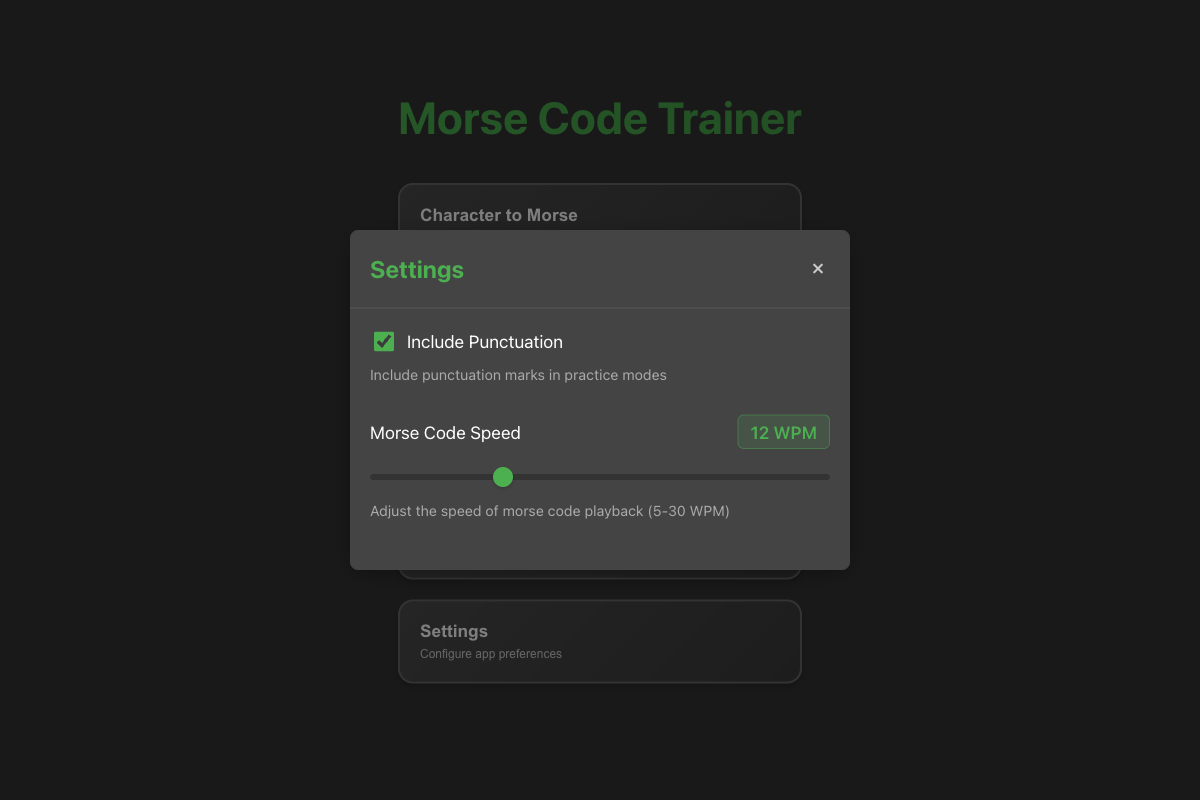
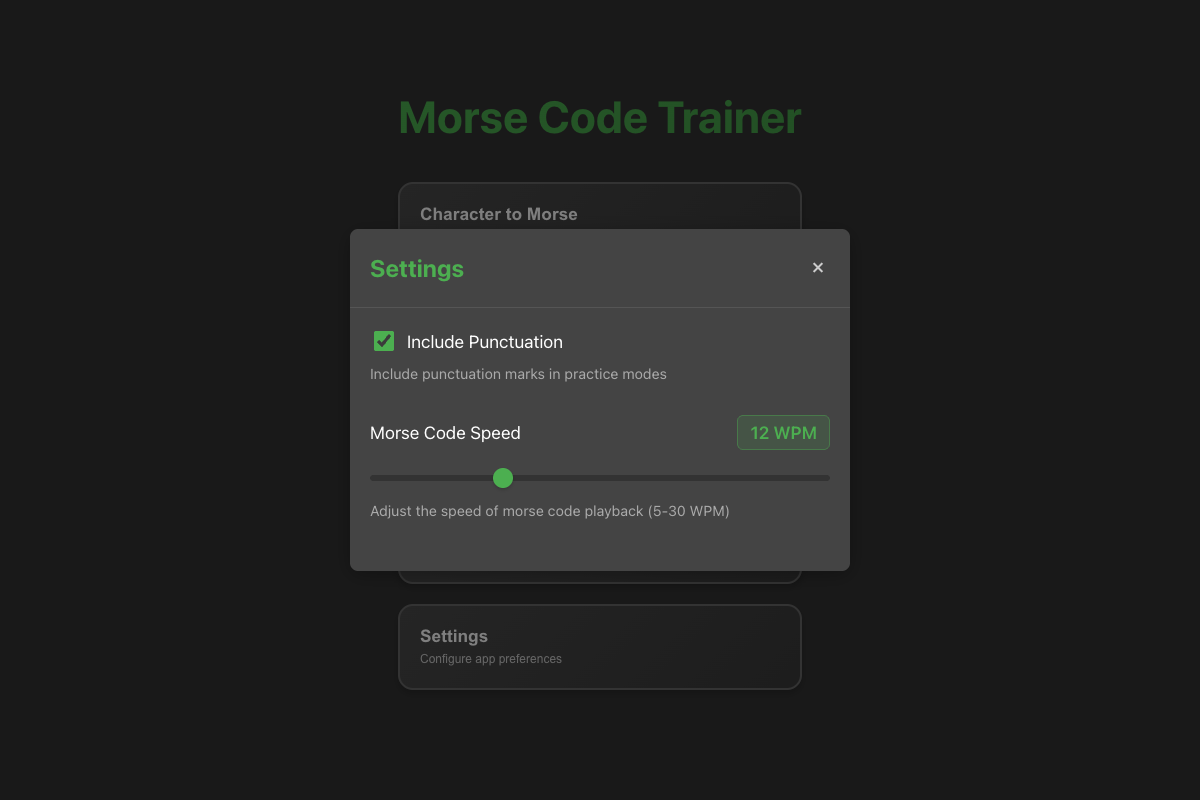
Update screenshots with improved deterministic settings

diff --git a/_scripts/screenshot.js b/_scripts/screenshot.js
@@ -92,6 +92,11 @@ async function takeScreenshot(page, scenario, baseUrl, suffix = '', source) {
   try {
     console.log(`📸 Taking screenshot: ${scenario.name}${suffix}`);
     
+    // Set consistent browser settings for deterministic screenshots
+    await page.setExtraHTTPHeaders({
+      'Accept-Language': 'en-US,en;q=0.9'
+    });
+    
     // Override Math.random for consistent screenshots
     await page.evaluateOnNewDocument(() => {
       // Predefined sequence for consistent character selection
@@ -114,21 +119,35 @@ async function takeScreenshot(page, scenario, baseUrl, suffix = '', source) {
         mockRandomIndex++;
         return value;
       };
+      
+      // Override Date.now for consistent timestamps
+      const fixedTime = 1640995200000; // Fixed timestamp: Jan 1, 2022
+      window._originalDateNow = Date.now;
+      Date.now = () => fixedTime;
+      
+      // Override performance.now for consistent timing
+      window._originalPerformanceNow = performance.now;
+      performance.now = () => 1000; // Fixed 1 second
     });
     
     // Navigate to the specific URL
     const fullUrl = baseUrl + scenario.url;
     await page.goto(fullUrl, { waitUntil: 'networkidle0' });
     
-    // Give dynamic loading time to complete (same as debug script)
-    await new Promise(resolve => setTimeout(resolve, 2000));
+    // Give dynamic loading time to complete and animations to settle
+    await new Promise(resolve => setTimeout(resolve, 3000)); // Increased from 2000
+    
+    // Wait for fonts to load
+    await page.evaluate(() => {
+      return document.fonts.ready;
+    });
     
     // Perform any required actions
     if (scenario.actions) {
       for (const action of scenario.actions) {
         if (action.type === 'click') {
           await page.click(action.selector);
-          await new Promise(resolve => setTimeout(resolve, 300));
+          await new Promise(resolve => setTimeout(resolve, 500)); // Increased wait time
         }
       }
     }
@@ -137,6 +156,9 @@ async function takeScreenshot(page, scenario, baseUrl, suffix = '', source) {
     if (scenario.waitFor) {
       await page.waitForSelector(scenario.waitFor, { timeout: 2000 });
     }
+    
+    // Additional wait for any animations to complete
+    await new Promise(resolve => setTimeout(resolve, 500));
     
     // Take screenshot
     const filename = `${scenario.name}.png`; // Remove suffix from filename
